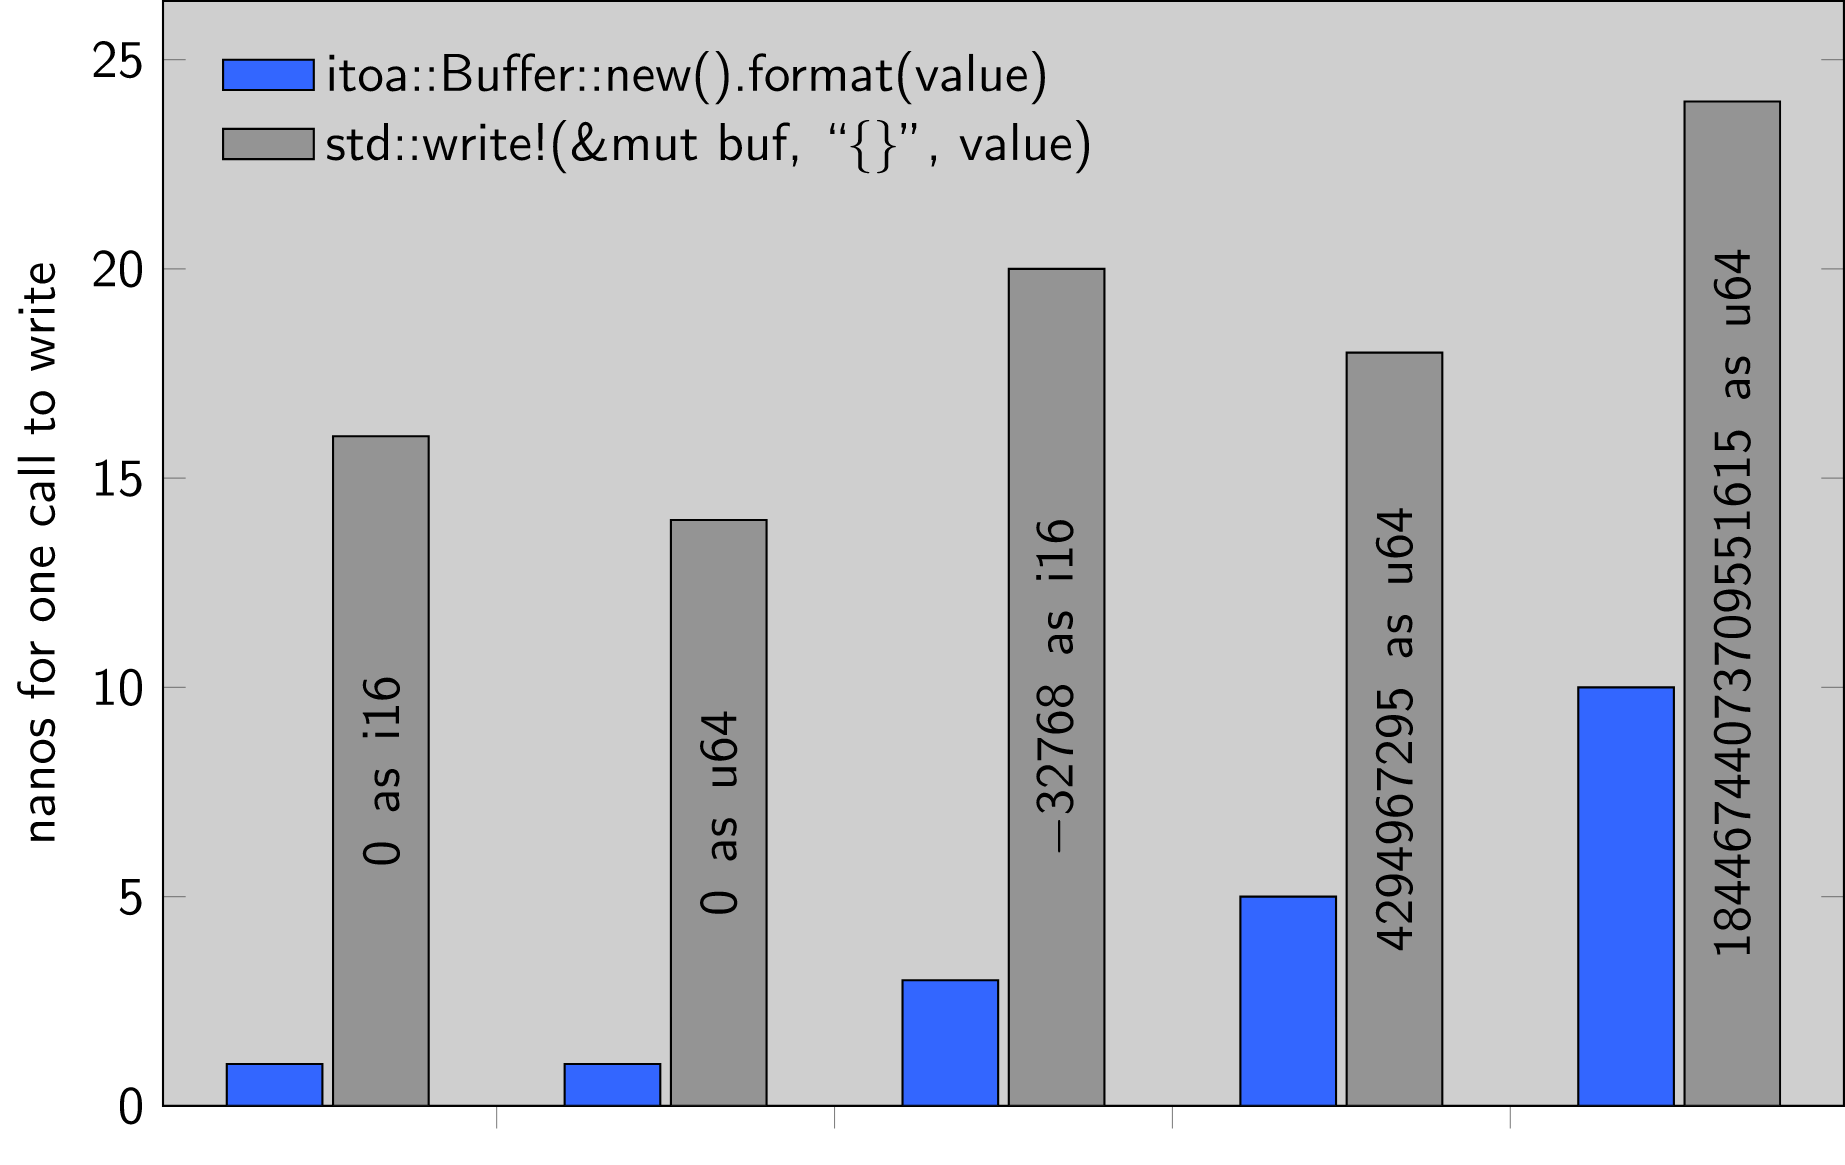
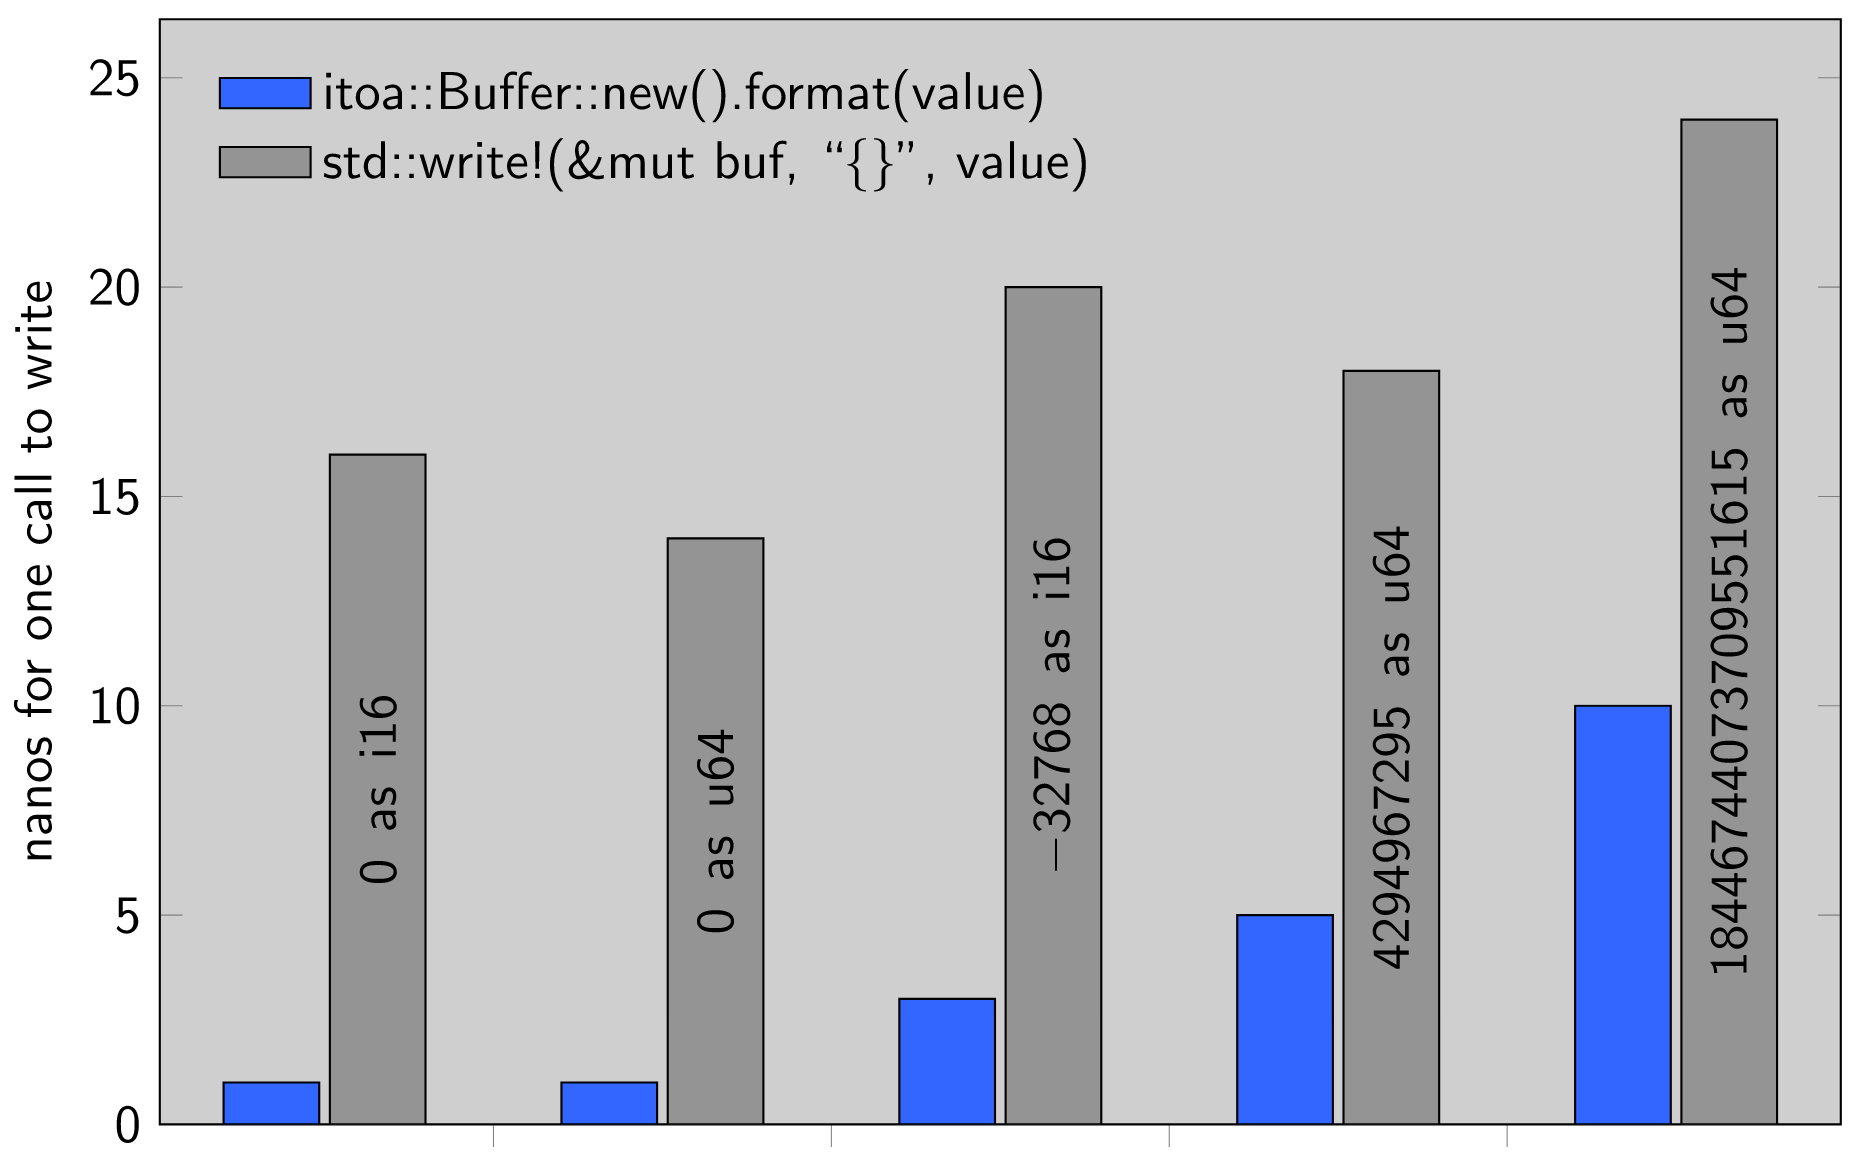
Adjust chart margins and background for dark themes

Changed region(s): [[0.0, 0.0, 1.0, 0.994]]

diff --git a/chart/performance.tex b/chart/performance.tex
@@ -6,6 +6,7 @@
 \definecolor{std}{HTML}{949494}
 \definecolor{bg}{HTML}{CFCFCF}
 \begin{document}
+\pagecolor{white}
 \begin{tikzpicture}
 \edef\entries{
   "$0${\enspace}as{\enspace}i16",
@@ -75,5 +76,8 @@
     (4, 24)
   };
 \end{axis}
+\pgfresetboundingbox\path
+  (current axis.south west) -- ++(-0.37in,-0.09in)
+  rectangle (current axis.north east) -- ++(0.05in,0.05in);
 \end{tikzpicture}
 \end{document}
